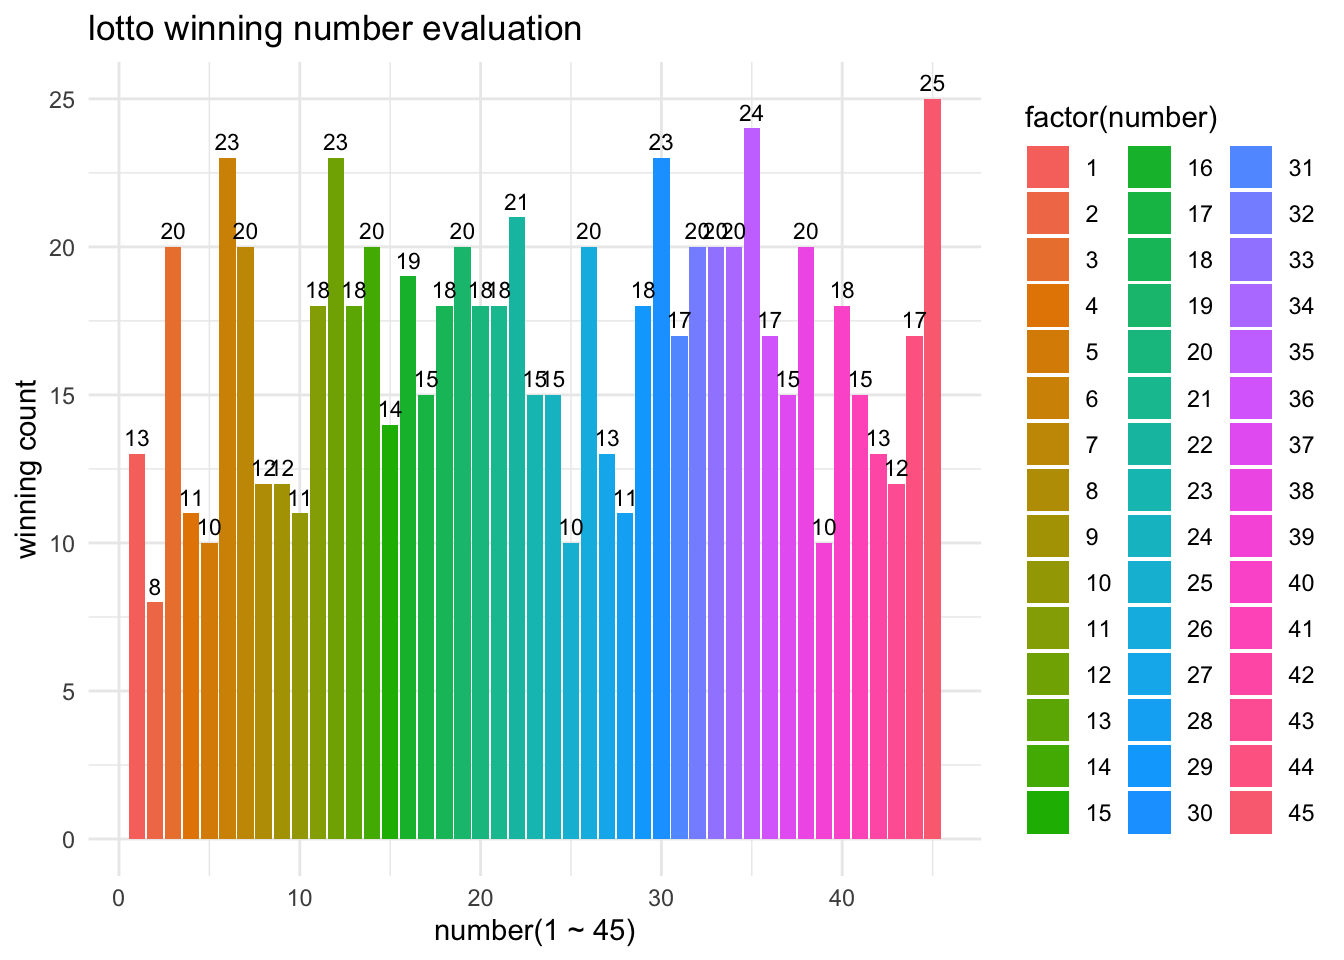
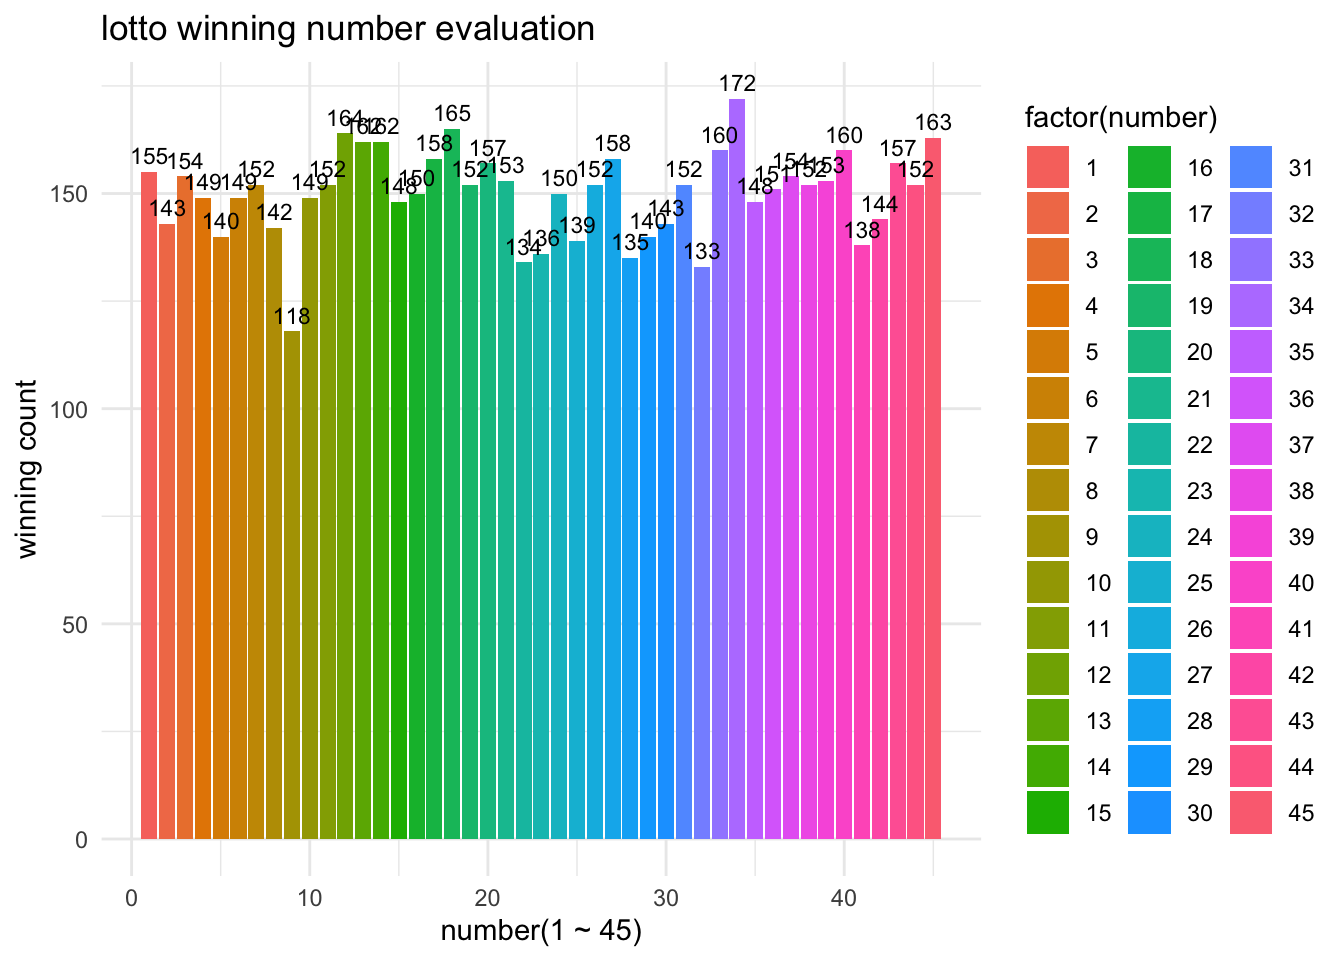
커밋 메시지

diff --git a/lottery.html b/lottery.html
@@ -64,7 +64,7 @@ ul.task-list li input[type="checkbox"] {
 
 <section id="숫자-별-당첨-횟수-분석-그래프" class="level2">
 <h2 class="anchored" data-anchor-id="숫자-별-당첨-횟수-분석-그래프">숫자 별 당첨 횟수 분석 그래프</h2>
-<p>1000회에서 1124회까지 크롤링을 통해 당첨 데이터 수집 =&gt; 크롤링 후 각 숫자 별 당첨 횟수를 그래프로 나타냄</p>
+<p>1회에서 1125회까지 크롤링을 통해 당첨 데이터 수집 =&gt; 크롤링 후 각 숫자 별 당첨 횟수를 그래프로 나타냄</p>
 <div class="cell">
 <div class="cell-output-display">
 <div>
